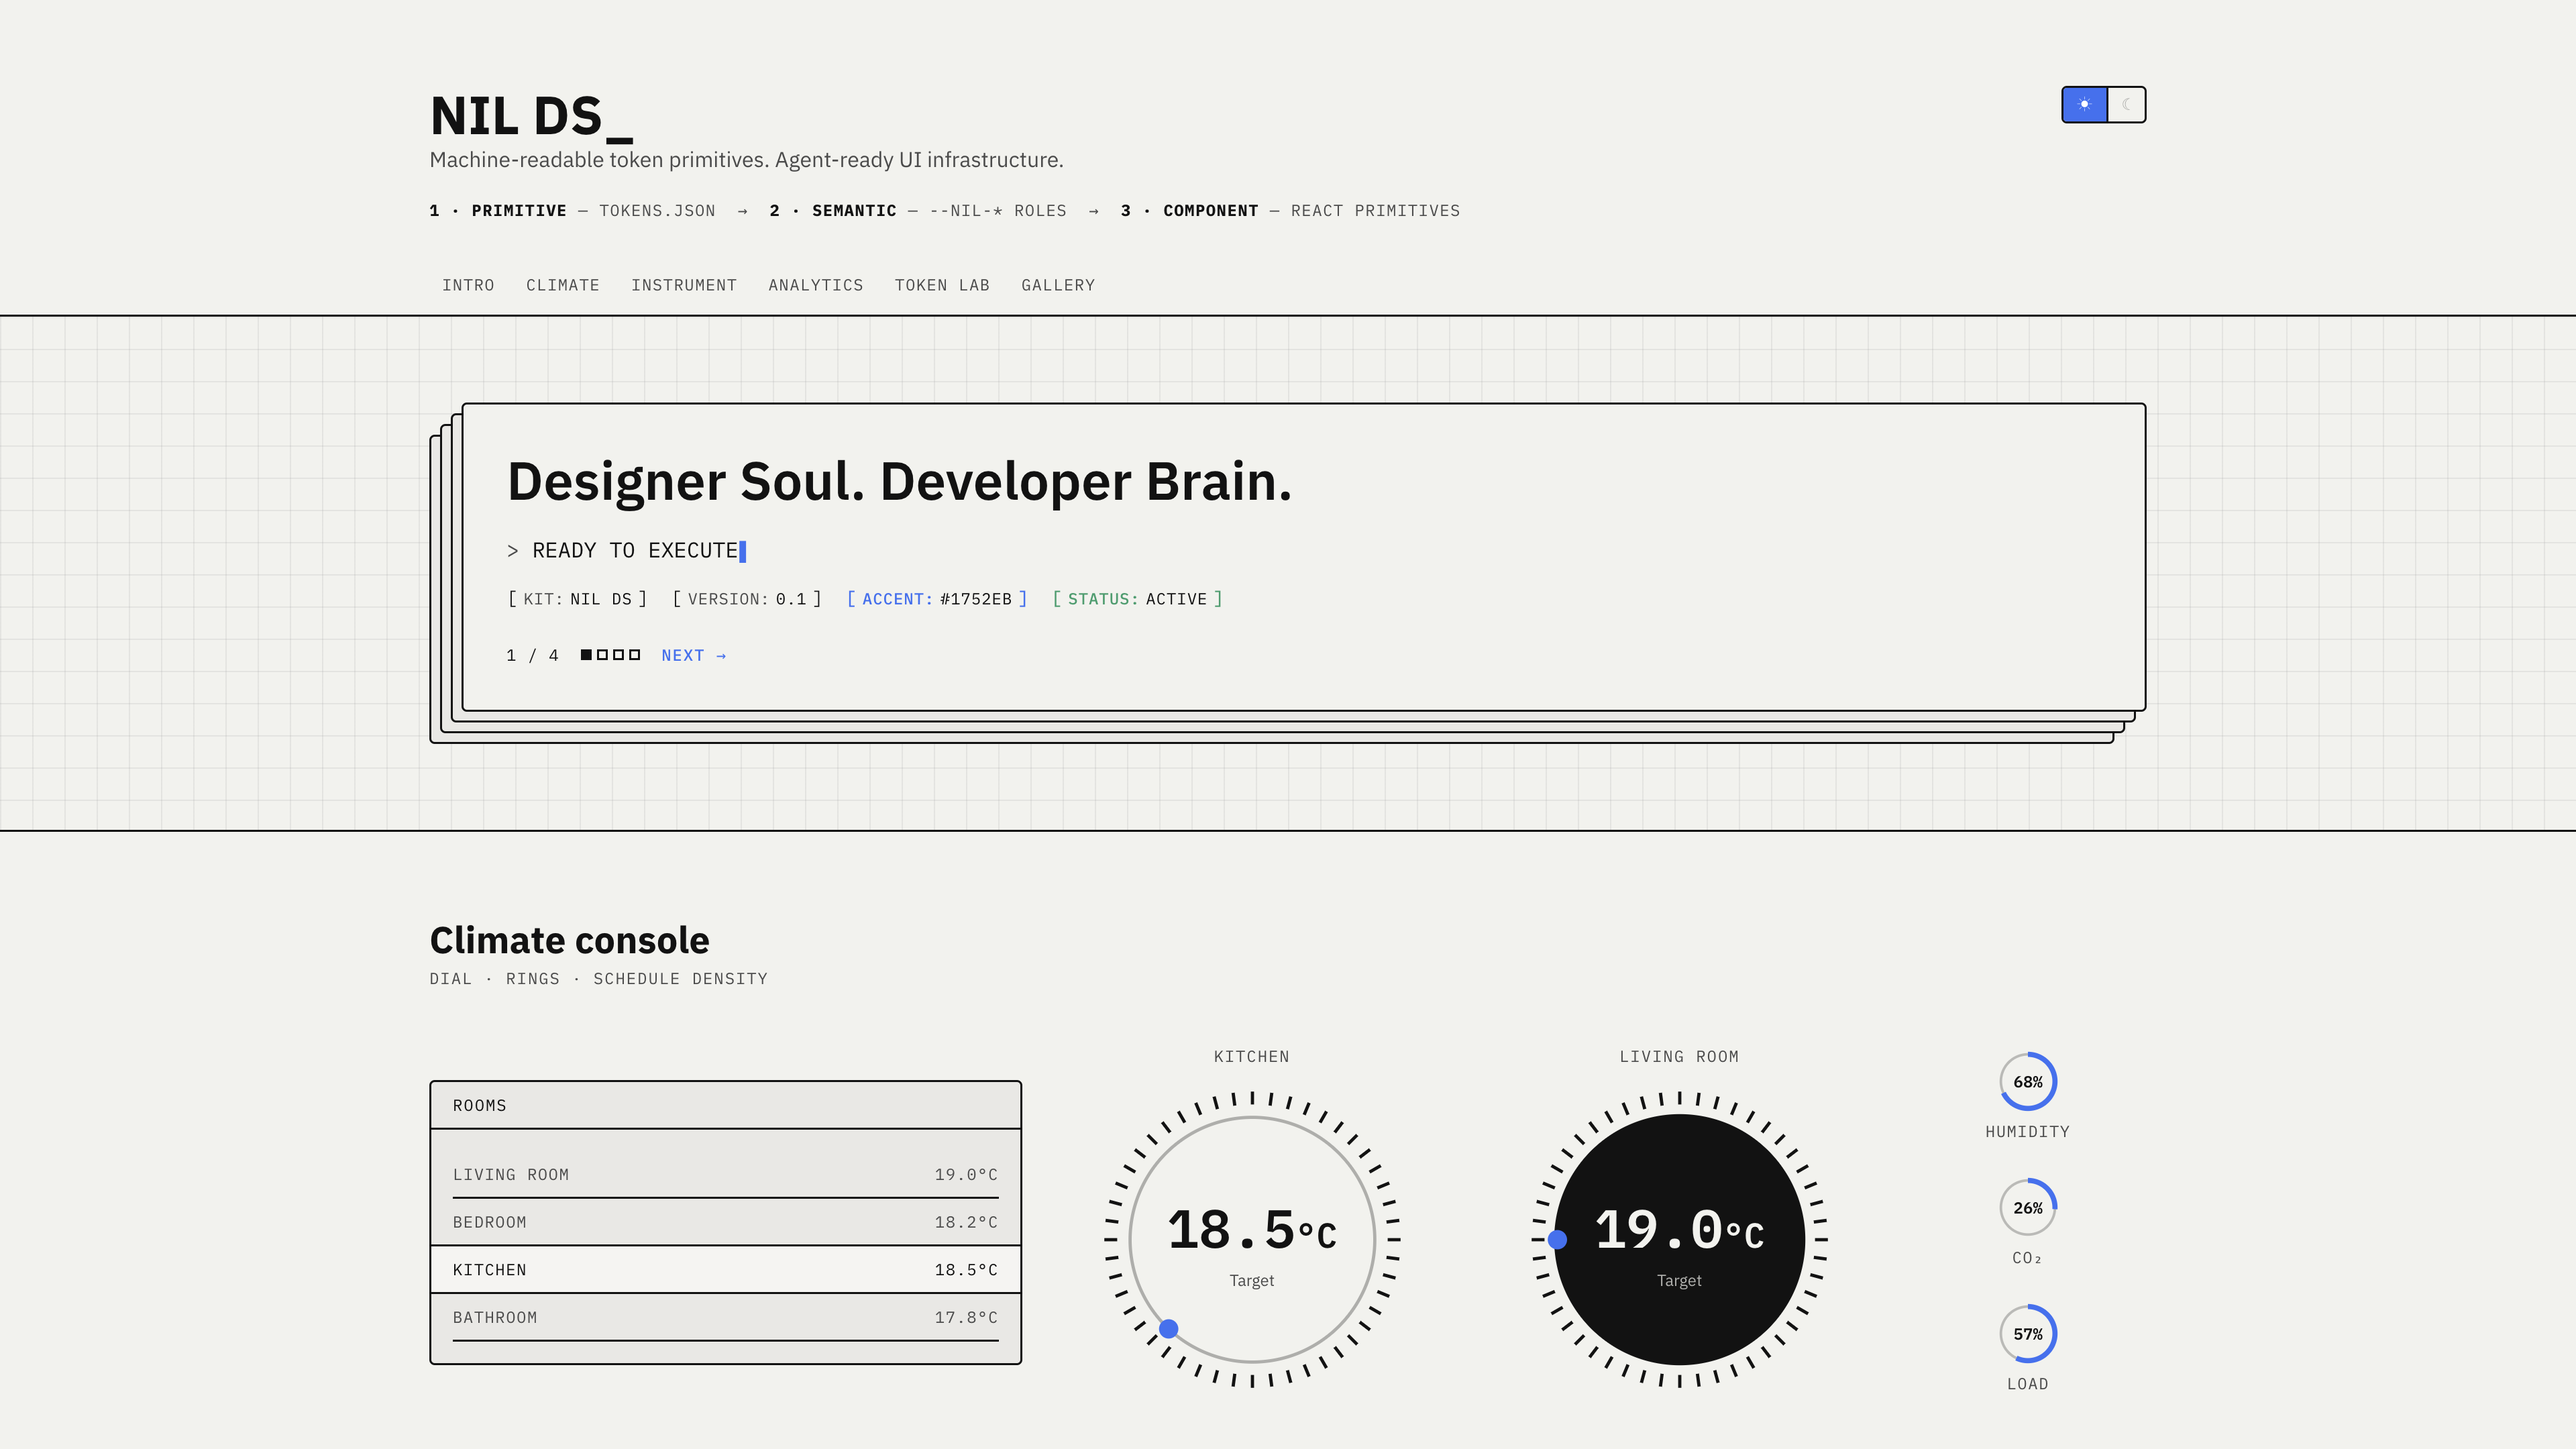
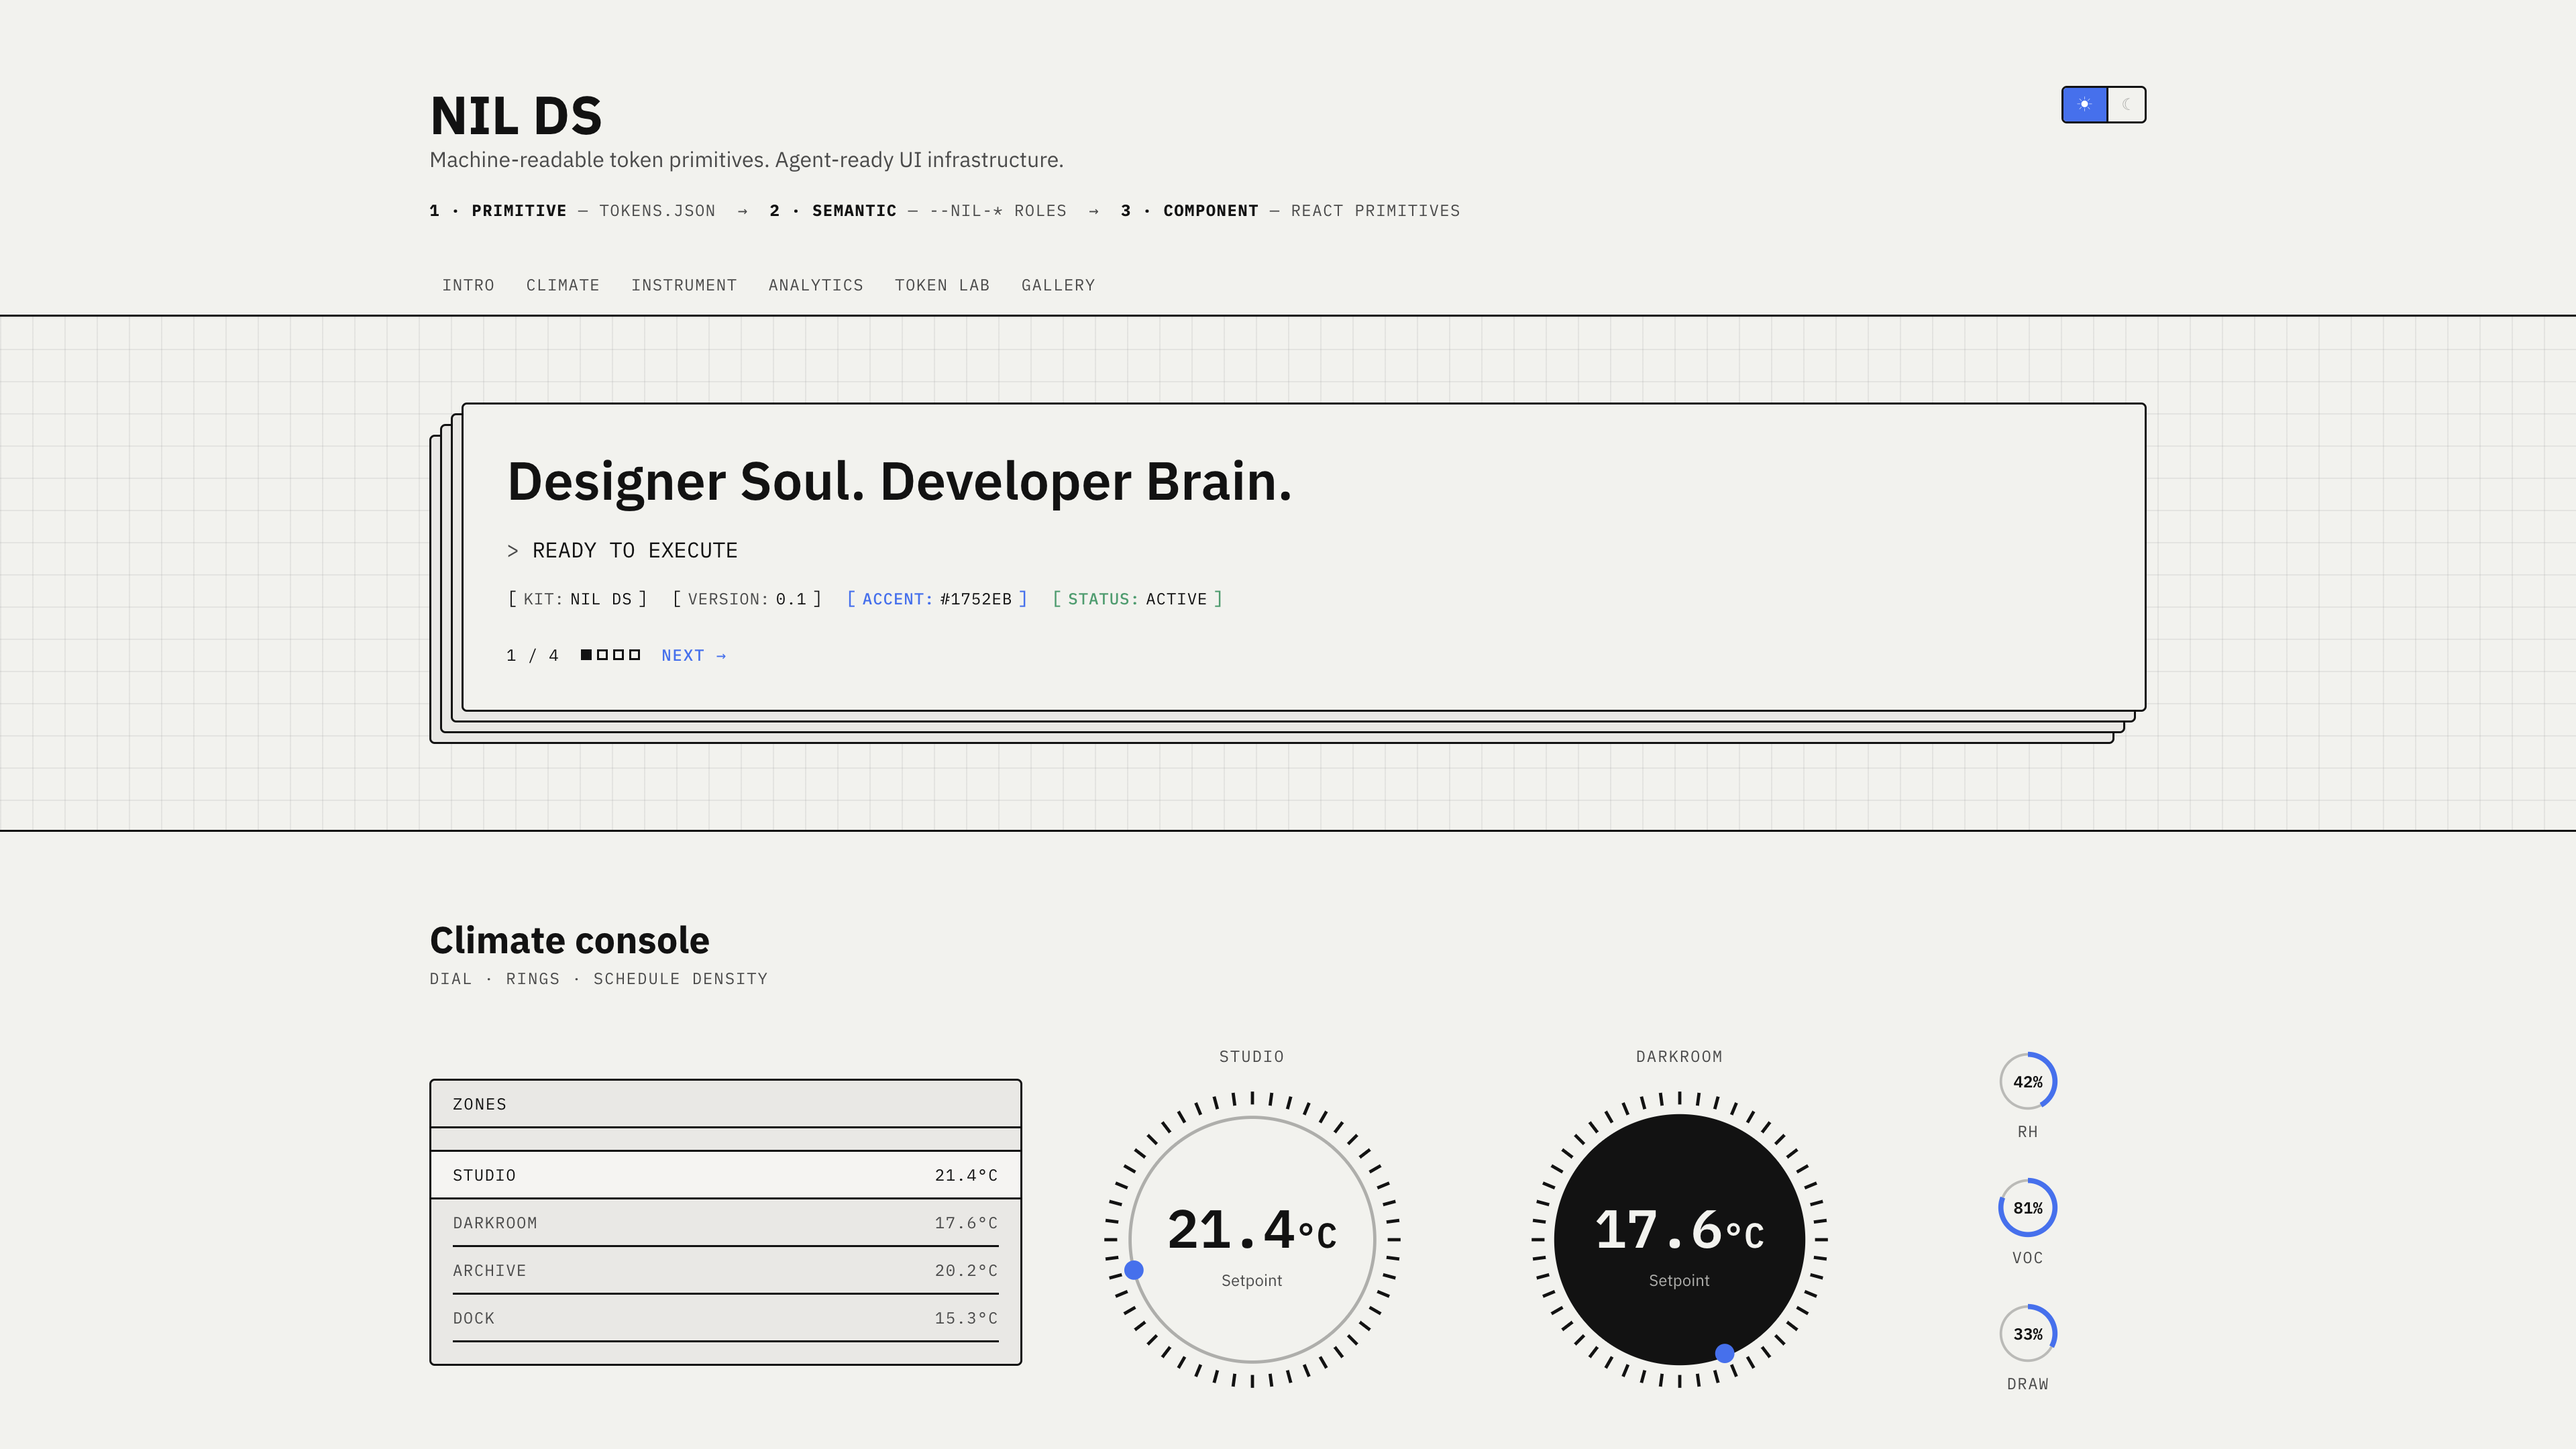
Replace copied demo fixtures and refresh README screenshots.
Climate/instrument copy was too close to the Aeonik Fono inspo; Site 07 data and showroom shots now use original NIL numbers and labels.

diff --git a/demo/scenes/ClimateScene.tsx b/demo/scenes/ClimateScene.tsx
@@ -13,8 +13,8 @@ import { DemoScene } from '../DemoScene';
 
 export function ClimateScene() {
   const { ref, visible } = useReveal();
-  const [weekdayOn, setWeekdayOn] = useState(true);
-  const [dayOffOn, setDayOffOn] = useState(false);
+  const [openOn, setOpenOn] = useState(true);
+  const [overnightOn, setOvernightOn] = useState(false);
 
   return (
     <DemoScene id="climate" ref={ref}>
@@ -29,25 +29,25 @@ export function ClimateScene() {
         className={`nil-demo-scene-grid nil-demo-scene-grid--climate nil-enter${visible ? ' is-visible' : ''}`}
         style={{ marginTop: 'var(--nil-spacing-lg)', ['--nil-anim-delay' as string]: '80ms' }}
       >
-        <Panel title="Rooms">
-          <DataRow label="Living room" detail="19.0°C" />
-          <DataRow label="Bedroom" detail="18.2°C" />
-          <DataRow label="Kitchen" detail="18.5°C" active />
-          <DataRow label="Bathroom" detail="17.8°C" />
+        <Panel title="Zones">
+          <DataRow label="Studio" detail="21.4°C" active />
+          <DataRow label="Darkroom" detail="17.6°C" />
+          <DataRow label="Archive" detail="20.2°C" />
+          <DataRow label="Dock" detail="15.3°C" />
         </Panel>
 
         <div style={{ display: 'flex', justifyContent: 'center', padding: 'var(--nil-spacing-md)' }}>
-          <Dial value="18.5" unit="°C" sublabel="Target" progress={62} size="xl" label="Kitchen" />
+          <Dial value="21.4" unit="°C" sublabel="Setpoint" progress={71} size="xl" label="Studio" />
         </div>
 
         <div style={{ display: 'flex', justifyContent: 'center', padding: 'var(--nil-spacing-md)' }}>
-          <Dial value="19.0" unit="°C" sublabel="Target" progress={75} size="xl" label="Living Room" variant="solid" />
+          <Dial value="17.6" unit="°C" sublabel="Setpoint" progress={44} size="xl" label="Darkroom" variant="solid" />
         </div>
 
         <div className="nil-demo-scene-grid--rings">
-          <Ring value={68} label="Humidity" />
-          <Ring value={26} label="CO₂" />
-          <Ring value={57} label="Load" />
+          <Ring value={42} label="RH" />
+          <Ring value={81} label="VOC" />
+          <Ring value={33} label="Draw" />
         </div>
       </div>
 
@@ -55,24 +55,24 @@ export function ClimateScene() {
         className={`nil-demo-scene-grid nil-demo-scene-grid--schedule nil-enter${visible ? ' is-visible' : ''}`}
         style={{ marginTop: 'var(--nil-spacing-lg)', ['--nil-anim-delay' as string]: '160ms' }}
       >
-        <Panel title="Schedule">
-          <DataRow label="Weekdays" value="20°C" detail="06:00 – 22:00" />
-          <DataRow label="Day off" value="19°C" detail="08:00 – 20:00" />
-          <DataRow label="Sunday" value="18°C" detail="10:00 – 18:00" />
+        <Panel title="Shift plan">
+          <DataRow label="Open" value="21°C" detail="08:30 – 18:00" />
+          <DataRow label="Closed" value="17°C" detail="18:00 – 08:30" />
+          <DataRow label="Overnight" value="16°C" detail="22:00 – 06:30" />
           <div style={{ display: 'flex', gap: 'var(--nil-spacing-lg)', marginTop: 'var(--nil-spacing-md)', flexWrap: 'wrap' }}>
             <div style={{ display: 'flex', alignItems: 'center', gap: 'var(--nil-spacing-sm)' }}>
-              <span className="nil-label">Weekdays:</span>
-              <Toggle checked={weekdayOn} onCheckedChange={setWeekdayOn} labelOn="ON" labelOff="OFF" />
+              <span className="nil-label">Open:</span>
+              <Toggle checked={openOn} onCheckedChange={setOpenOn} labelOn="ON" labelOff="OFF" />
             </div>
             <div style={{ display: 'flex', alignItems: 'center', gap: 'var(--nil-spacing-sm)' }}>
-              <span className="nil-label">Day off:</span>
-              <Toggle checked={dayOffOn} onCheckedChange={setDayOffOn} labelOn="ON" labelOff="OFF" />
+              <span className="nil-label">Overnight:</span>
+              <Toggle checked={overnightOn} onCheckedChange={setOvernightOn} labelOn="ON" labelOff="OFF" />
             </div>
           </div>
         </Panel>
 
         <Panel variant="inverse" style={{ display: 'flex', flexDirection: 'column', justifyContent: 'center', alignItems: 'center' }}>
-          <Readout label="Outside" value="14" unit="°C" size="md" />
+          <Readout label="Yard" value="8" unit="°C" size="md" />
         </Panel>
       </div>
     </DemoScene>

diff --git a/demo/scenes/InstrumentScene.tsx b/demo/scenes/InstrumentScene.tsx
@@ -11,7 +11,7 @@ import {
 import { useReveal } from '../hooks/useReveal';
 import { DemoScene } from '../DemoScene';
 
-function RadiatorIcon() {
+function CircuitIcon() {
   return (
     <svg width="32" height="32" viewBox="0 0 32 32" fill="none" aria-hidden>
       <rect x="6" y="8" width="4" height="16" stroke="currentColor" strokeWidth="2" />
@@ -21,7 +21,7 @@ function RadiatorIcon() {
   );
 }
 
-function SolarIcon() {
+function ArrayIcon() {
   return (
     <svg width="32" height="32" viewBox="0 0 32 32" fill="none" aria-hidden>
       <rect x="4" y="12" width="24" height="14" stroke="currentColor" strokeWidth="2" />
@@ -34,7 +34,7 @@ function SolarIcon() {
 
 export function InstrumentScene({ band }: { band?: boolean }) {
   const { ref, visible } = useReveal();
-  const [heatOn, setHeatOn] = useState(true);
+  const [holdOn, setHoldOn] = useState(true);
 
   return (
     <DemoScene id="instrument" band={band} ref={ref}>
@@ -45,34 +45,34 @@ export function InstrumentScene({ band }: { band?: boolean }) {
 
       <div className={`nil-demo-instrument nil-enter${visible ? ' is-visible' : ''}`} style={{ marginTop: 'var(--nil-spacing-lg)' }}>
         <div style={{ display: 'flex', justifyContent: 'space-between', alignItems: 'flex-start' }}>
-          <span className="nil-label">Aeonik Fono</span>
-          <Ring value={68} label="Capacity" size="sm" />
+          <span className="nil-label">Site 07</span>
+          <Ring value={73} label="Capacity" size="sm" />
         </div>
 
         <Panel style={{ marginTop: 'var(--nil-spacing-md)' }}>
-          <Readout label="Indoor" value="19.0" unit="°C" sublabel="Heating to desired temperature…" />
+          <Readout label="Studio" value="21.4" unit="°C" sublabel="Holding setpoint" />
         </Panel>
 
         <div style={{ display: 'grid', gridTemplateColumns: '1fr 1fr', gap: 'var(--nil-spacing-md)', marginTop: 'var(--nil-spacing-md)' }}>
-          <Panel title="Radiators">
-            <RadiatorIcon />
+          <Panel title="Circuit">
+            <CircuitIcon />
             <div style={{ marginTop: 'var(--nil-spacing-sm)' }}>
-              <Text size="sm" muted>1.7 bar</Text>
+              <Text size="sm" muted>2.3 bar</Text>
             </div>
           </Panel>
-          <Panel title="Solar">
-            <SolarIcon />
+          <Panel title="Array">
+            <ArrayIcon />
             <div style={{ marginTop: 'var(--nil-spacing-sm)' }}>
-              <Text size="sm" muted>4.2 kWh</Text>
+              <Text size="sm" muted>6.8 kWh</Text>
             </div>
           </Panel>
         </div>
 
-        <Panel title="Weekly" style={{ marginTop: 'var(--nil-spacing-md)' }}>
-          <DataRow label="Weekdays" value="20°C" detail="06:00 – 22:00" />
-          <DataRow label="Sunday" value="18°C" detail="10:00 – 18:00" />
+        <Panel title="Hold" style={{ marginTop: 'var(--nil-spacing-md)' }}>
+          <DataRow label="Open" value="21°C" detail="08:30 – 18:00" />
+          <DataRow label="Overnight" value="16°C" detail="22:00 – 06:30" />
           <div style={{ marginTop: 'var(--nil-spacing-md)' }}>
-            <Toggle checked={heatOn} onCheckedChange={setHeatOn} labelOn="HEAT ON" labelOff="HEAT OFF" />
+            <Toggle checked={holdOn} onCheckedChange={setHoldOn} labelOn="HOLD ON" labelOff="HOLD OFF" />
           </div>
         </Panel>
       </div>

diff --git a/demo/scenes/AnalyticsScene.tsx b/demo/scenes/AnalyticsScene.tsx
@@ -10,7 +10,7 @@ import {
 import { useReveal } from '../hooks/useReveal';
 import { DemoScene } from '../DemoScene';
 
-const ROOMS = ['Living room', 'Bedroom', 'Bathroom', 'Kitchen'];
+const ZONES = ['Studio', 'Dock', 'Archive', 'Mezzanine'];
 const BAR_HEIGHTS = [40, 55, 35, 70, 48, 62, 38];
 const STEP_HEIGHTS = [12, 28, 20, 36, 24, 40, 16, 32];
 
@@ -22,7 +22,7 @@ export function AnalyticsScene() {
     <DemoScene id="analytics" ref={ref}>
       <div className={`nil-enter${visible ? ' is-visible' : ''}`}>
         <Heading level={2}>Lighting</Heading>
-        <TabStrip tabs={ROOMS} activeIndex={tab} onTabChange={setTab} style={{ marginTop: 'var(--nil-spacing-md)' }} />
+        <TabStrip tabs={ZONES} activeIndex={tab} onTabChange={setTab} style={{ marginTop: 'var(--nil-spacing-md)' }} />
       </div>
 
       <div
@@ -34,15 +34,15 @@ export function AnalyticsScene() {
             <line x1="24" y1="4" x2="24" y2="16" stroke="currentColor" strokeWidth="2" />
             <path d="M12 28 Q24 20 36 28 L36 40 L12 40 Z" stroke="currentColor" strokeWidth="2" fill="none" />
           </svg>
-          <DataRow label="Living room" value="ON" />
-          <DataRow label="Bedroom" value="ON" />
-          <DataRow label="Kitchen" value="OFF" />
+          <DataRow label="Studio" value="ON" />
+          <DataRow label="Dock" value="ON" />
+          <DataRow label="Archive" value="OFF" />
           <div style={{ marginTop: 'var(--nil-spacing-lg)' }}>
-            <Dial value="75.4" unit="%" sublabel="Warm 2400k" progress={75} size="md" />
+            <Dial value="62.8" unit="%" sublabel="Cool 4000k" progress={63} size="md" />
           </div>
         </Panel>
 
-        <Panel title="Analytics" headerRight={<span className="nil-label">Solar panels ▾</span>}>
+        <Panel title="Analytics" headerRight={<span className="nil-label">Array B ▾</span>}>
           <div className="nil-demo-chart-bars" aria-hidden>
             {BAR_HEIGHTS.map((h, i) => (
               <div
@@ -60,7 +60,7 @@ export function AnalyticsScene() {
               <div key={i} className="nil-demo-step-bar" style={{ height: `${h}px` }} />
             ))}
           </div>
-          <DataRow label="Live" value="2.4 kW" detail="14:41" />
+          <DataRow label="Live" value="3.1 kW" detail="09:17" />
         </Panel>
       </div>
     </DemoScene>

diff --git a/demo/scenes/TokenLabScene.tsx b/demo/scenes/TokenLabScene.tsx
@@ -128,7 +128,7 @@ export function TokenLabScene({ band }: { band?: boolean }) {
 
       <div className="nil-demo-mini-preview nil-enter is-visible">
         <Button variant="primary">Primary</Button>
-        <Dial value="68" unit="%" progress={68} size="sm" />
+        <Dial value="42" unit="%" progress={42} size="sm" />
         <Meta label="Accent" tone="accent">Live</Meta>
         <Meta label="Alert" tone="danger">Fault</Meta>
       </div>

diff --git a/src/components/Dial.test.tsx b/src/components/Dial.test.tsx
@@ -43,7 +43,7 @@ describe('Dial', () => {
   });
 
   it('uses the semantic text token for the default value colour', () => {
-    const { container } = render(<Dial value={18.5} unit="°C" />);
+    const { container } = render(<Dial value={21.4} unit="°C" />);
     expect(container.querySelector('.nil-dial')).toHaveStyle({ color: 'var(--nil-color-text)' });
   });
 });

diff --git a/APPLY.md b/APPLY.md
@@ -39,7 +39,7 @@ import { Button, Panel, Dial } from 'nil-ds';
 export function Example() {
   return (
     <Panel title="Status">
-      <Dial value="19.0" unit="°C" progress={62} />
+      <Dial value="21.4" unit="°C" progress={71} />
       <Button variant="primary">Park</Button>
     </Panel>
   );
